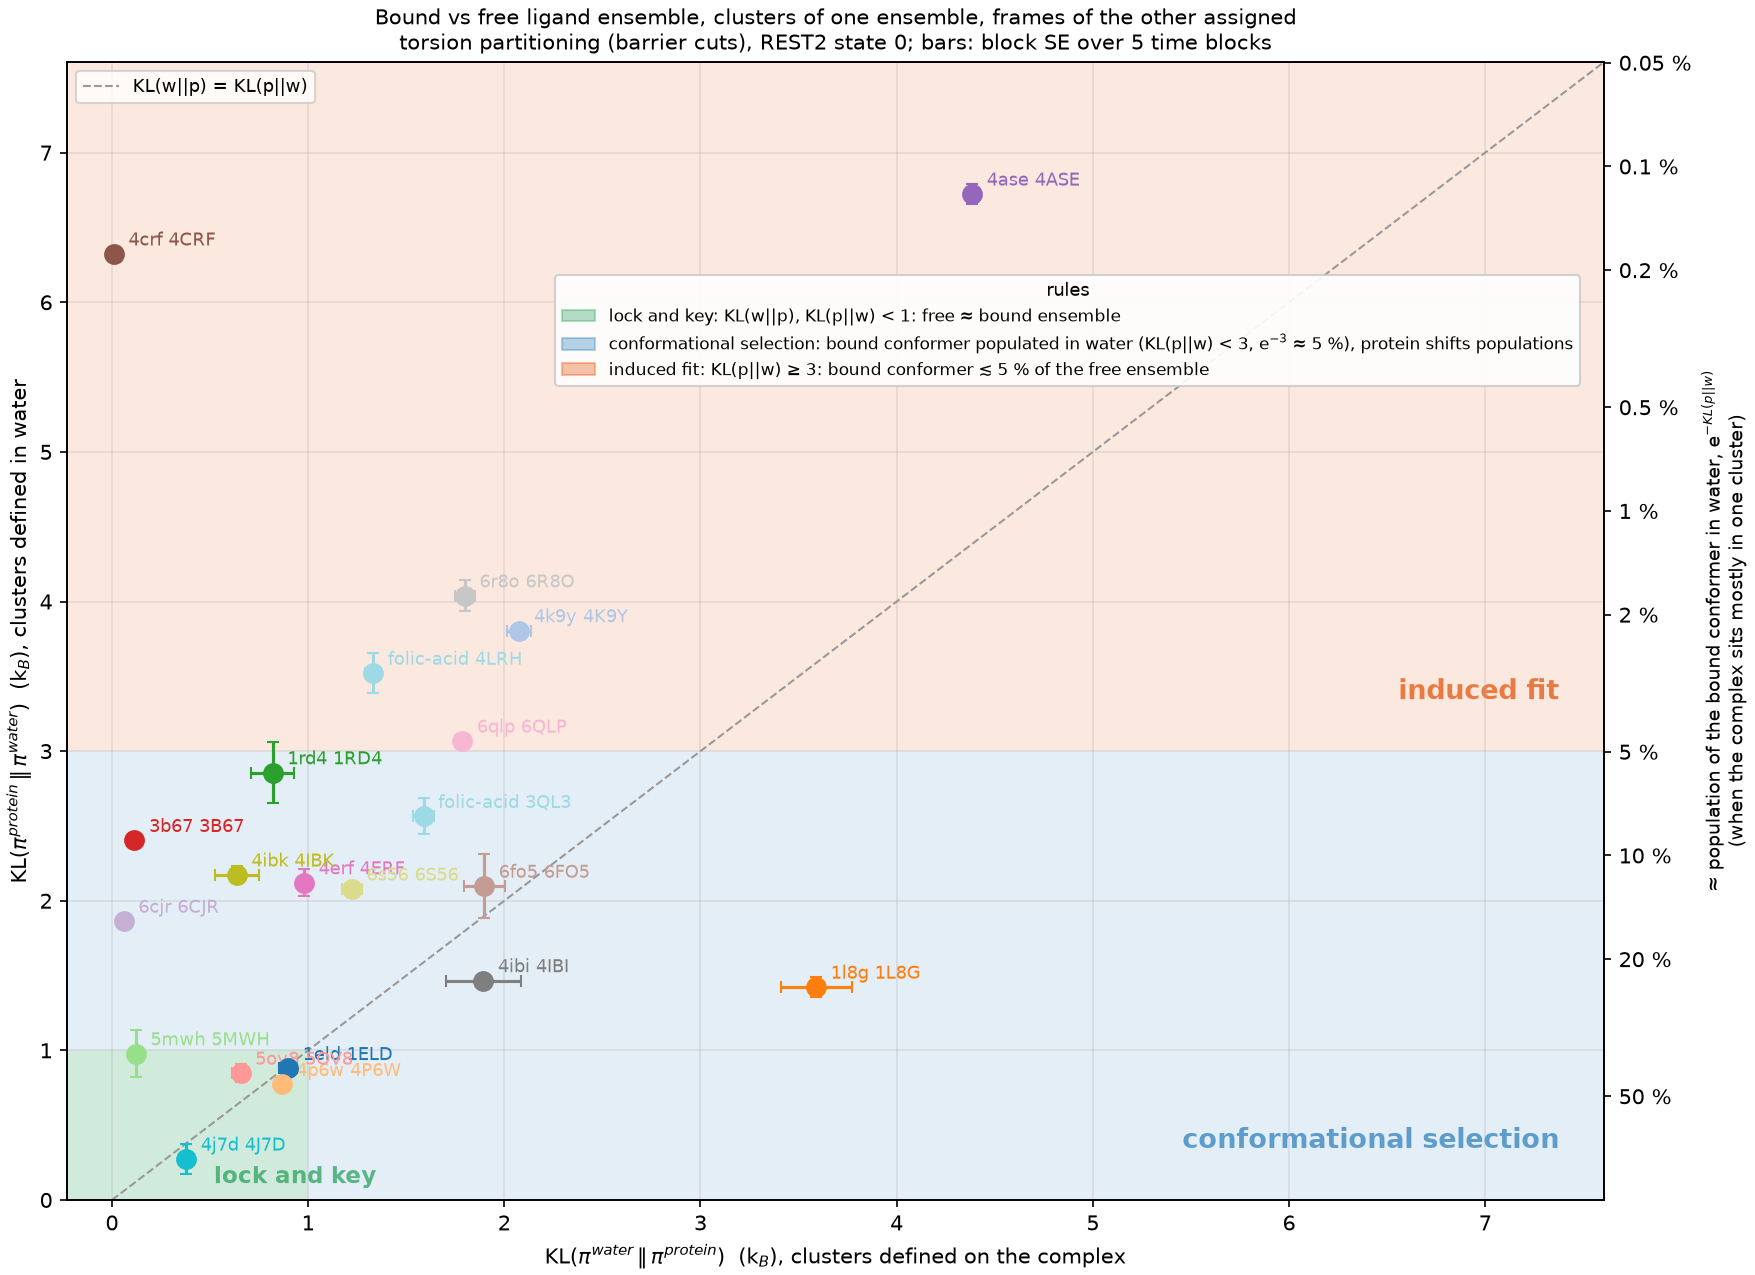
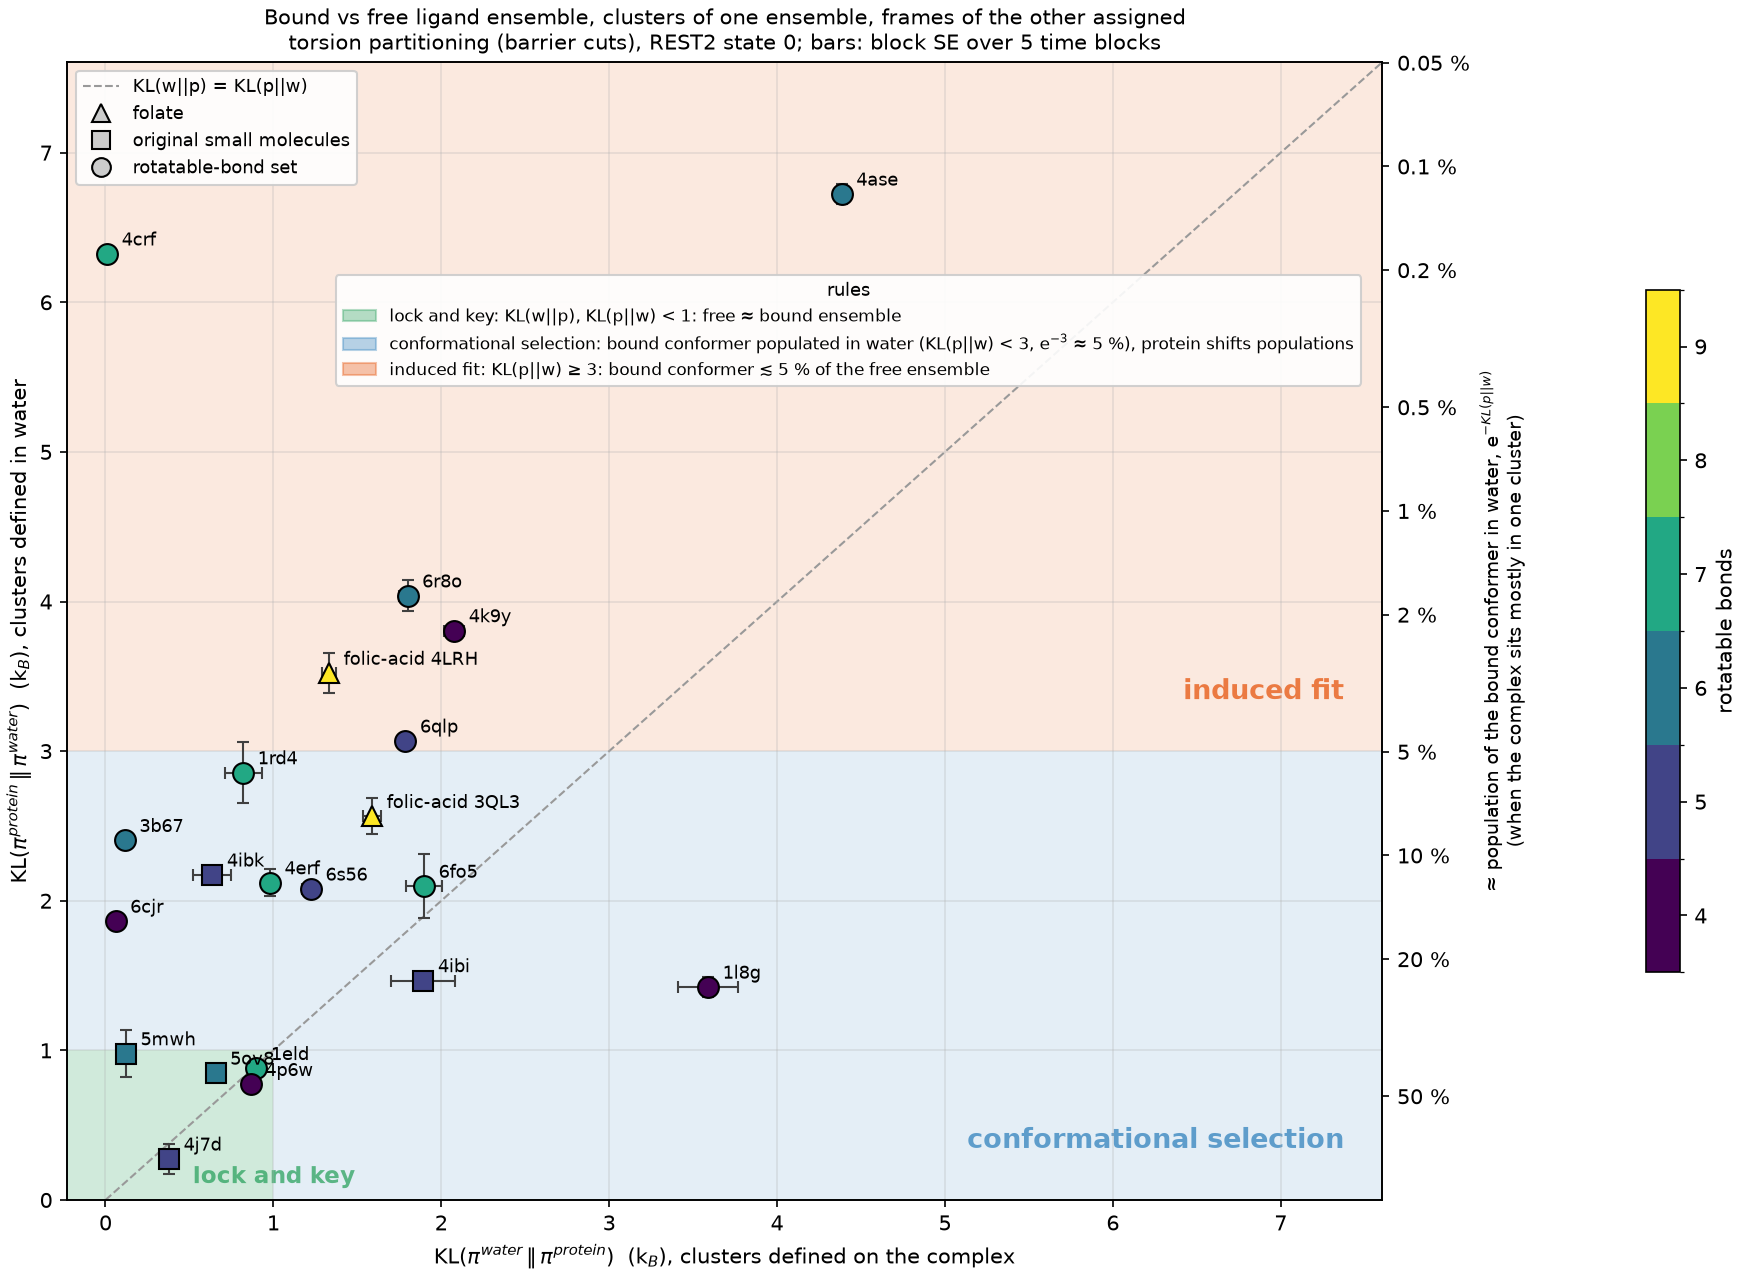
KL cross plots: one label per point, colour = rotatable bonds, marker = compound set; four-example plot (4j7d, 4crf, 4ase, 1l8g); transparent background without regions

diff --git a/analysis/report/kl_cross.py b/analysis/report/kl_cross.py
@@ -31,7 +31,10 @@ ensemble against the reference's full populations (the clustering is not refitte
   (kl_cross.sbatch: one Slurm task per compound and method, then --plot)
   python -I kl_cross.py --plot     -> <out>/kl_cross_{cut,hdbscan}.png + .csv (all compounds), and
                                       <out>/kl_cross_{cut,hdbscan}_regions.png: the same with the binding
-                                      regimes as background (regime(); --lock-key-max, --induced-fit-min)
+                                      regimes as background (regime(); --lock-key-max, --induced-fit-min);
+                                      <out>/kl_cross_cut_examples{,_regions}.png: only 4j7d, 4crf, 4ase, 1l8g.
+                                      Points coloured by rotatable bonds, marker = compound set; the
+                                      figures without regions have a transparent background (slides)
 """
 import argparse
 import json
@@ -219,61 +222,106 @@ def run(args):
         print(f"wrote {args.out}/kl_cross_{args.method}_{name}.csv", flush=True)
 
 
+EXAMPLES = ("4j7d", "4crf", "4ase", "1l8g")     # the four corners of the cut plot (Shu-Yu: explain the equation with them)
+SETS = {"folate": "^", "original small molecules": "s", "rotatable-bond set": "o"}
+
+
+def ligand_info():
+    """name -> (rotatable bonds, compound set): rotatable bonds of the water ligand as in
+    conformational_entropy.py (RDKit, heavy atoms), set from compounds.csv."""
+    from rdkit import Chem
+    from rdkit.Chem import rdMolDescriptors
+    out = {}
+    for row in _csv.DictReader(open(os.path.join(HERE, "compounds.csv"))):
+        path = f"{WORK}/{row['name']}/manifest.json"
+        if not os.path.exists(path):
+            continue
+        sdf = json.load(open(path))["water"]["sdf"]
+        rb = rdMolDescriptors.CalcNumRotatableBonds(Chem.RemoveHs(Chem.MolFromMolFile(sdf)))
+        kind = ("folate" if row["name"] == "folic-acid" else
+                "rotatable-bond set" if row["water"].startswith("REST2-rotbonds") else "original small molecules")
+        out[row["name"]] = (int(rb), kind)
+    return out
+
+
+def point_label(df, r):
+    """The ligand name; the complex only where a ligand has several (folate 4LRH / 3QL3)."""
+    return f"{r.ligand} {r.complex}" if (df.ligand == r.ligand).sum() > 1 else r.ligand
+
+
+def draw_kl(ax, df, info, cmap, norm, top, args, regions, big=False):
+    from matplotlib.lines import Line2D
+    if regions:
+        draw_regions(ax, top, args)
+    ax.plot([0, top], [0, top], color="0.6", ls="--", lw=1, zorder=1)
+    for _, r in df.iterrows():
+        rb, kind = info[r.ligand]
+        col = cmap(norm(rb))
+        x = 0 if pd.isna(r.KL_w_p_complexdef) else r.KL_w_p_complexdef
+        ax.errorbar(x, r.KL_p_w_waterdef, xerr=None if pd.isna(r.KL_w_p_complexdef) else r.KL_w_p_se,
+                    yerr=r.KL_p_w_se, fmt=SETS[kind], ms=15 if big else 10, mfc="white" if pd.isna(r.KL_w_p_complexdef) else col,
+                    mec="k" if not pd.isna(r.KL_w_p_complexdef) else col, mew=1.0 if not pd.isna(r.KL_w_p_complexdef) else 2,
+                    ecolor="0.25", elinewidth=1, capsize=3, zorder=4, clip_on=False)
+        text = point_label(df, r) + ("\n(no complex cluster)" if pd.isna(r.KL_w_p_complexdef) else "")
+        ax.annotate(text, (x, r.KL_p_w_waterdef), textcoords="offset points", xytext=(10, 6) if big else (7, 4),
+                    fontsize=13 if big else 8.5, color="k", fontweight="bold" if big else "normal", zorder=5)
+    ax.set_xlim(-0.03 * top, top)
+    ax.set_ylim(0, top)
+    ax.set_xlabel(r"KL($\pi^{water}\,\|\,\pi^{protein}$)  (k$_B$), clusters defined on the complex")
+    ax.set_ylabel(r"KL($\pi^{protein}\,\|\,\pi^{water}$)  (k$_B$), clusters defined in water")
+    ax.grid(alpha=0.3)
+    kinds = [k for k in SETS if any(info[l][1] == k for l in df.ligand)]
+    handles = [Line2D([], [], color="0.6", ls="--", lw=1, label="KL(w||p) = KL(p||w)")]
+    handles += [Line2D([], [], marker=SETS[k], ls="", mfc="0.8", mec="k", ms=9, label=k) for k in kinds]
+    ax.legend(handles=handles, loc="upper left", fontsize=8.5, framealpha=0.9)
+
+
 def plot(args):
     import matplotlib
     matplotlib.use("Agg")
     import matplotlib.pyplot as plt
+    from matplotlib.colors import BoundaryNorm
     titles = {"cut": "torsion partitioning (barrier cuts)", "hdbscan": "symmetry-first HDBSCAN (no single cluster)"}
+    info = ligand_info()
     for method, title in titles.items():
         import glob
         files = sorted(glob.glob(f"{args.out}/kl_cross_{method}_*.csv"))
+        files = [f for f in files if not f.endswith(("_regions.csv", "_examples.csv"))]
         if not files:
             print(f"skip {method}: no kl_cross_{method}_*.csv")
             continue
         df = pd.concat([pd.read_csv(f) for f in files], ignore_index=True)
         if len(set(df.settings)) != 1:
             sys.exit(f"{method}: settings differ between compounds: {set(df.settings)}")
-        ligands = list(dict.fromkeys(df.ligand))
-        palette = list(plt.get_cmap("tab20").colors[::2]) + list(plt.get_cmap("tab20").colors[1::2]) + list(plt.get_cmap("Dark2").colors)
-        colours = dict(zip(ligands, palette))
         df["regime"] = [regime(x, y, args) for x, y in zip(df.KL_w_p_complexdef, df.KL_p_w_waterdef)]
+        df["rot_bonds"] = [info[l][0] for l in df.ligand]
+        df["compound_set"] = [info[l][1] for l in df.ligand]
         df.drop(columns="settings").to_csv(f"{args.out}/kl_cross_{method}.csv", index=False)
         top = np.nanmax(np.r_[df.KL_p_w_waterdef + df.KL_p_w_se, (df.KL_w_p_complexdef + df.KL_w_p_se).dropna()]) * 1.12
-        for regions in (False, True):
+        lo, hi = int(df.rot_bonds.min()), int(df.rot_bonds.max())
+        cmap = plt.get_cmap("viridis", hi - lo + 1)
+        norm = BoundaryNorm(np.arange(lo - 0.5, hi + 1.5), cmap.N)
+        sub = f"{title}, REST2 state 0; bars: block SE over {args.blocks} time blocks"
+        variants = [("", df, False), ("_regions", df, True)]
+        if method == "cut":
+            ex = df[df.ligand.isin(EXAMPLES)]
+            variants += [("_examples", ex, False), ("_examples_regions", ex, True)]
+        for suffix, d, regions in variants:
+            big = "examples" in suffix
             fig, ax = plt.subplots(figsize=(10.5 + 1.2 * regions, 8.5), layout="constrained")
-            if regions:
-                draw_regions(ax, top, args)
-            ax.plot([0, top], [0, top], color="0.6", ls="--", lw=1, label="KL(w||p) = KL(p||w)")
-            missing = []
-            for _, r in df.iterrows():
-                col = colours[r.ligand]
-                if pd.isna(r.KL_w_p_complexdef):
-                    missing.append(f"{r.ligand} {r.complex}: KL(p||w) = {r.KL_p_w_waterdef:.2f}, no cluster in the complex")
-                    ax.errorbar(0, r.KL_p_w_waterdef, yerr=r.KL_p_w_se, fmt="s", mfc="white", mec=col, ecolor=col, ms=9,
-                                mew=2, capsize=3, clip_on=False, zorder=3)
-                    ax.annotate(f"{r.ligand} {r.complex}\n(no complex cluster)", (0, r.KL_p_w_waterdef),
-                                textcoords="offset points", xytext=(8, -4), fontsize=7.5, color=col)
-                    continue
-                ax.errorbar(r.KL_w_p_complexdef, r.KL_p_w_waterdef, xerr=r.KL_w_p_se, yerr=r.KL_p_w_se, fmt="o",
-                            color=col, ms=9, capsize=3, zorder=3)
-                ax.annotate(f"{r.ligand} {r.complex}", (r.KL_w_p_complexdef, r.KL_p_w_waterdef),
-                            textcoords="offset points", xytext=(7, 4), fontsize=8.5, color=col)
-            ax.set_xlim(-0.03 * top, top)
-            ax.set_ylim(0, top)
-            ax.set_xlabel(r"KL($\pi^{water}\,\|\,\pi^{protein}$)  (k$_B$), clusters defined on the complex")
-            ax.set_ylabel(r"KL($\pi^{protein}\,\|\,\pi^{water}$)  (k$_B$), clusters defined in water")
-            ax.grid(alpha=0.3)
-            ax.legend(loc="upper left", fontsize=8.5)
-            ax.set_title(f"Bound vs free ligand ensemble, clusters of one ensemble, frames of the other assigned\n"
-                         f"{title}, REST2 state 0; bars: block SE over {args.blocks} time blocks"
+            draw_kl(ax, d, info, cmap, norm, top, args, regions, big=big)
+            cb = fig.colorbar(matplotlib.cm.ScalarMappable(norm=norm, cmap=cmap), ax=ax, shrink=0.6,
+                              pad=0.09 if regions else 0.02, ticks=range(lo, hi + 1))
+            cb.set_label("rotatable bonds")
+            ax.set_title(f"Bound vs free ligand ensemble, clusters of one ensemble, frames of the other assigned\n{sub}"
                          + ("\nunassigned (noise) frames are dropped before the KL, so regimes are unreliable where "
                             "most frames are unassigned: use the barrier-cut plot" if regions and method == "hdbscan" else ""),
                          fontsize=10)
-            path = f"{args.out}/kl_cross_{method}{'_regions' if regions else ''}.png"
-            fig.savefig(path, dpi=150)
+            path = f"{args.out}/kl_cross_{method}{suffix}.png"
+            fig.savefig(path, dpi=150, transparent=not regions)      # no regions: transparent, for slides
             plt.close(fig)
-            print(f"wrote {path}" + (f" ({'; '.join(missing)})" if missing and not regions else ""))
-        print("  " + "; ".join(f"{g}: {', '.join(f'{r.ligand} {r.complex}' for _, r in d.iterrows())}"
+            print(f"wrote {path}")
+        print("  " + "; ".join(f"{g}: {', '.join(point_label(df, r) for r in d.itertuples())}"
                                for g, d in df.groupby("regime", sort=False)))
 
 
